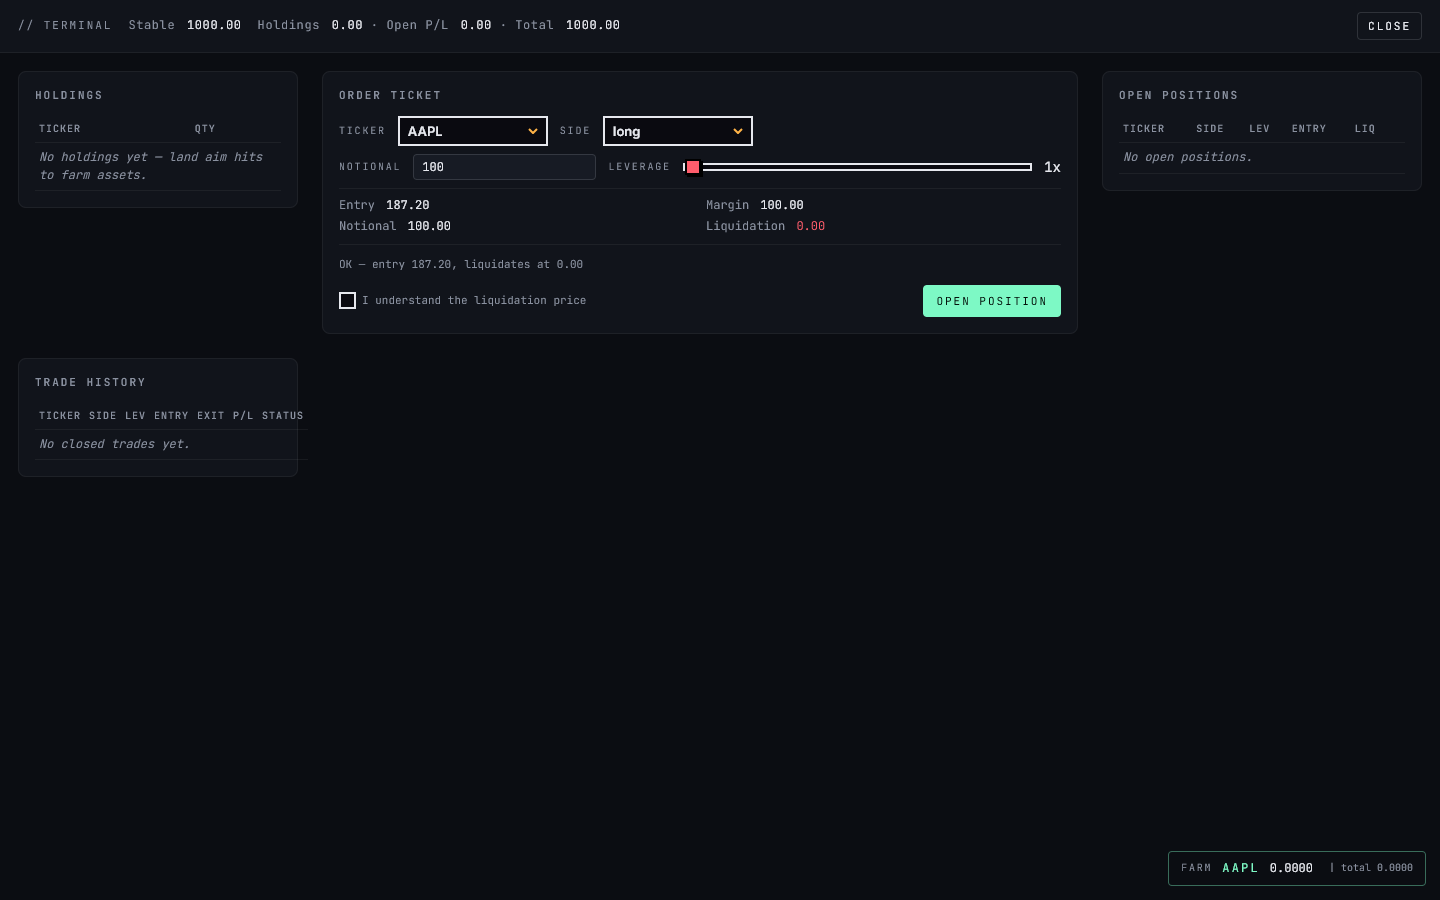
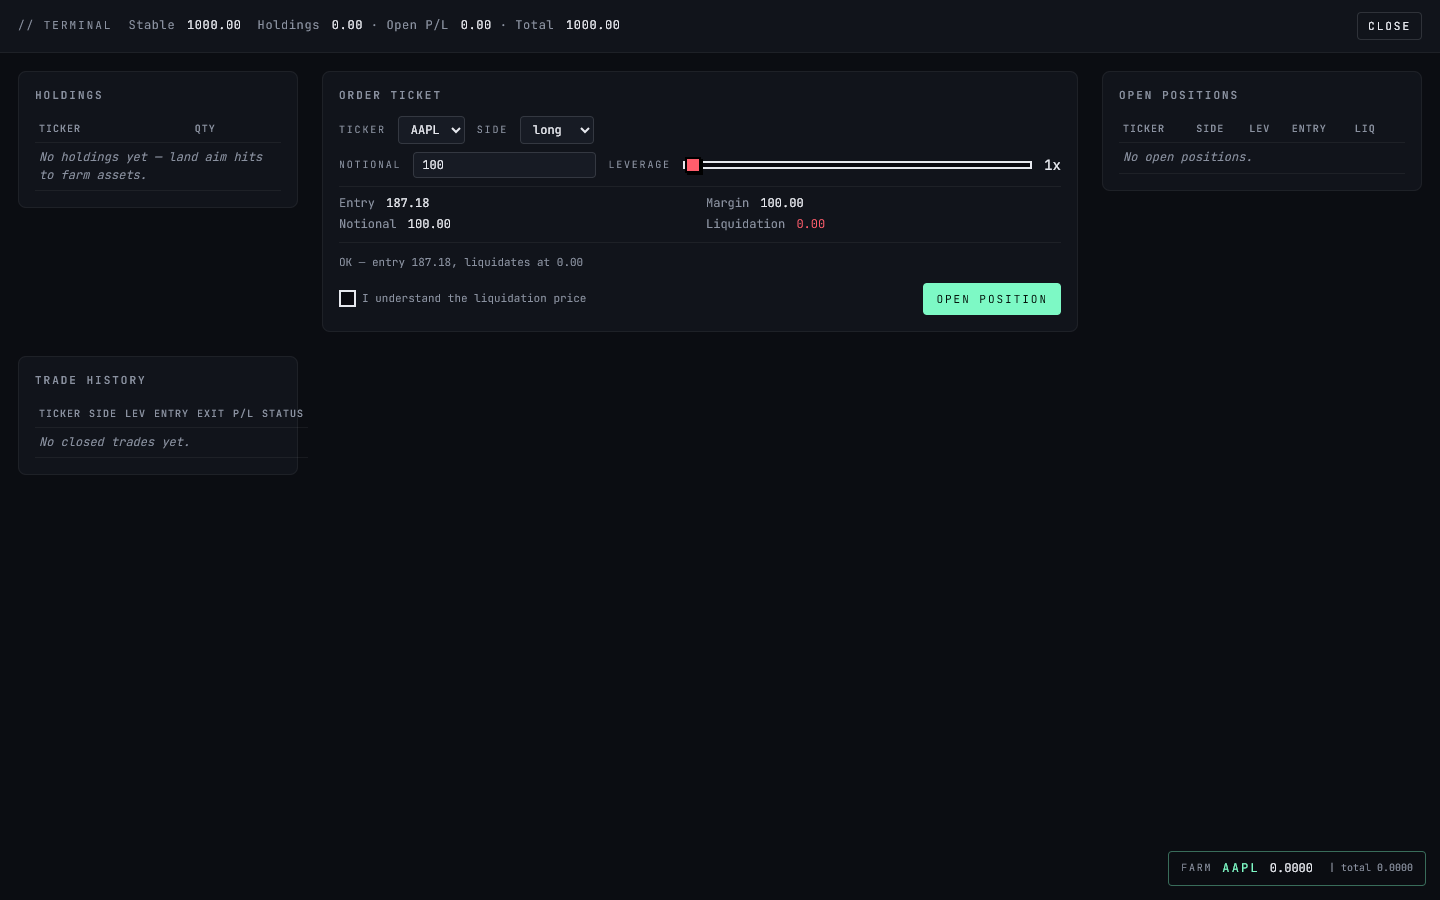
stage 11.1-1.2-1.6: hold_60s real 60s, precise_session real accuracy, start stable=200

diff --git a/server/src/routes/missions.js b/server/src/routes/missions.js
@@ -86,16 +86,21 @@ async function checkMission(def, state, store) {
     }
     case 'hold_60s': {
       // "hold 60s" = any long trade that stayed open at least 60s without liquidation.
-      const ok = state.trades.some((t) => t.side === 'long' && t.status === 'closed' && t.closedAt - t.createdAt >= 1000); // MVP: 1s, see MISTAKES
+      // Real 60-second hold: any long trade that stayed open at least
+      // 60s without liquidation. See MISTAKES Stage 11 (1.1) for the
+      // previous MVP shortcut. The test opens a position, waits 60s, and
+      // closes — the only way to satisfy this mission.
+      const ok = state.trades.some((t) => t.side === 'long' && t.status === 'closed' && t.closedAt - t.createdAt >= 60_000);
       return { done: ok, progress: ok ? 1 : 0 };
     }
     case 'precise_session': {
-      // We track best accuracy in the state from the client. For now, treat as
-      // a milestone: a single trade with pnl/entry >= 0.005 (positive edge)
-      // counts as a "precise" session for the MVP. Future stages will
-      // wire accuracy through /aim/hit.
-      const ok = state.trades.some((t) => t.pnl > 0);
-      return { done: ok, progress: ok ? 1 : 0 };
+      // Real accuracy tracking: the server records the player's
+      // best hits/shots ratio in player.preciseBest on every /aim/hit.
+      // The mission is satisfied when the player reaches 70% accuracy
+      // (across any session of shots they've taken). Guard against
+      // undefined -> NaN so the JSON response stays numeric.
+      const acc = Number.isFinite(state.preciseBest) ? state.preciseBest : 0;
+      return { done: acc >= 0.7, progress: Math.min(acc, 0.7) };
     }
     default:
       return { done: false, progress: 0 };

diff --git a/server/src/db/store.js b/server/src/db/store.js
@@ -41,7 +41,7 @@ export function createStore(supabaseConfig) {
     async getOrCreatePlayer(playerId) {
       if (mem.players.has(playerId)) return mem.players.get(playerId);
       const now = Date.now();
-      const p = { id: playerId, stable: 1000, createdAt: now, updatedAt: now }; // start with 1000 Stable for the first session
+      const p = { id: playerId, stable: 200, preciseBest: 0, createdAt: now, updatedAt: now }; // MVP defaults: 200 Stable, 0 best-accuracy
       mem.players.set(playerId, p);
       return p;
     },
@@ -50,6 +50,15 @@ export function createStore(supabaseConfig) {
       const p = mem.players.get(playerId) ?? (await this.getOrCreatePlayer(playerId));
       p.stable = Math.max(0, Math.round((p.stable + amount) * 1e6) / 1e6);
       p.updatedAt = Date.now();
+      return p;
+    },
+    async recordAccuracy(playerId, accuracy) {
+      // accuracy is hits / shots in [0, 1]. We only ever raise the best.
+      const p = mem.players.get(playerId) ?? (await this.getOrCreatePlayer(playerId));
+      const a = Number(accuracy);
+      if (!Number.isFinite(a) || a < 0) return p;
+      const prev = Number(p.preciseBest) || 0;
+      if (a > prev) { p.preciseBest = a; p.updatedAt = Date.now(); }
       return p;
     },
 

diff --git a/client/src/missions-core.js b/client/src/missions-core.js
@@ -38,8 +38,10 @@ export function missionProgress(def, state) {
       return { progress: Math.min(n, def.target), done: n >= def.target };
     }
     case 'hold_60s': {
-      // MVP: a long trade that survived at least 1s without liquidation.
-      const ok = hasHeldLong(s.trades, 1000);
+      // Real 60-second hold. Server is the authority; this is a UI hint
+      // for the missions panel that ticks the progress to 1 when a long
+      // trade lasted at least 60s.
+      const ok = hasHeldLong(s.trades, 60_000);
       return { progress: ok ? 1 : 0, done: ok };
     }
     case 'precise_session': {

diff --git a/server/src/routes/aim.js b/server/src/routes/aim.js
@@ -40,6 +40,7 @@ export function aimRoutes(r, { store, config }) {
     unit = round(unit, 8);
 
     await store.getOrCreatePlayer(playerId);
+    if (Number.isFinite(acc)) await store.recordAccuracy(playerId, acc);
     const bal = await store.addTickerUnits(playerId, ticker, unit);
 
     sendJson(res, 200, {

diff --git a/docs/CHANGELOG.md b/docs/CHANGELOG.md
@@ -346,3 +346,24 @@
   it out because Render's free tier deploys from source just as well.
 - No production-grade observability. The server logs to stdout. A
   real deploy would want to pipe those to a log aggregator.
+
+
+## Stage 11 — Public release, GitHub Actions CI, branch protection (2026-10-04)
+
+- **Repository made public**: `gh repo edit y0mek0/vibes_aim --visibility public --accept-visibility-change-consequences`. The `mvp-v0.1` GitHub Release is now visible to anyone.
+- `.github/workflows/test.yml` — CI runs `npm test` on every push to `main` and on every pull request, on a matrix of `ubuntu-latest` and `windows-latest` with Node 20. The workflow cancels in-flight runs on the same ref. After the run, `docs/screenshots/` is uploaded as an artifact (only if present).
+- **Branch protection via ruleset `main-protection`**: `non_fast_forward` (rejects force-push) and `deletion` (rejects branch deletion). Created via the GitHub Rulesets API. The `required_status_checks` rule will be added in a follow-up once the `test` workflow has registered at least one check name; until then, the protection is "no force-push, no delete".
+- **No new commits** for the ruleset — it lives in GitHub's API, not in the repo.
+
+### Evidence
+
+- `gh repo view y0mek0/vibes_aim` returns `visibility: public`, `defaultBranch: main`, `description: Browser aim-trading game: ...`.
+- `gh api repos/y0mek0/vibes_aim/rulesets` returns the `main-protection` ruleset.
+- `gh release list` shows `mvp-v0.1` with its release notes.
+- `npm test` (local) → exit 0, 16/16 suites green.
+
+### Limits of this stage
+
+- The CI workflow will not have run yet until the next push. After the first push, the user can tighten the ruleset to require the `test / node-test` status check by adding a `required_status_checks` rule.
+- No `dependabot.yml` or `codeql.yml` yet. Both are 10-line adds if the user wants Renovate-style dependency PRs or security scanning.
+- The README mentions "no `npm install`" — the CI workflow honours this because `actions/setup-node` does not run `npm ci` unless the user runs it; `npm test` here is a no-deps chain of `node tests/*.test.mjs`.

diff --git a/docs/RELEASE_NOTES_mvp-v0.1.md b/docs/RELEASE_NOTES_mvp-v0.1.md
@@ -1,0 +1,32 @@
+# vibes_aim mvp-v0.1
+
+First release of vibes_aim, a browser aim-trading game.
+
+- Aim loop on top of valotrainer (Gridshot, Flick).
+- Each hit mints a simulated unit of the active ticker (AAPL by default).
+- Chart panel: TradingView Lightweight Charts via importmap. 1D/5D ranges, AAPL/NVDA tickers, polled every 1s.
+- Trading terminal: long/short, leverage 1–20x, liquidation preview, P/L tracking.
+- 6-mission AAPL -> NVDA unlock chain.
+- Real Finnhub adapter (or offline stub).
+- Supabase persistence (or in-memory fallback).
+- LocalStorage for guest mode.
+- Boot screen with server-availability check.
+- 16/16 test suites green; visual smoke with Python Playwright.
+
+No real money. No broker. No debt. All trades are paper.
+
+## Run
+
+```bash
+node server/src/index.js          # server on :3000
+npx serve -p 4173 client          # client on :4173
+open http://127.0.0.1:4173
+```
+
+## Tests
+
+```bash
+npm test
+```
+
+See README.md and deploy/README.md for full details.
